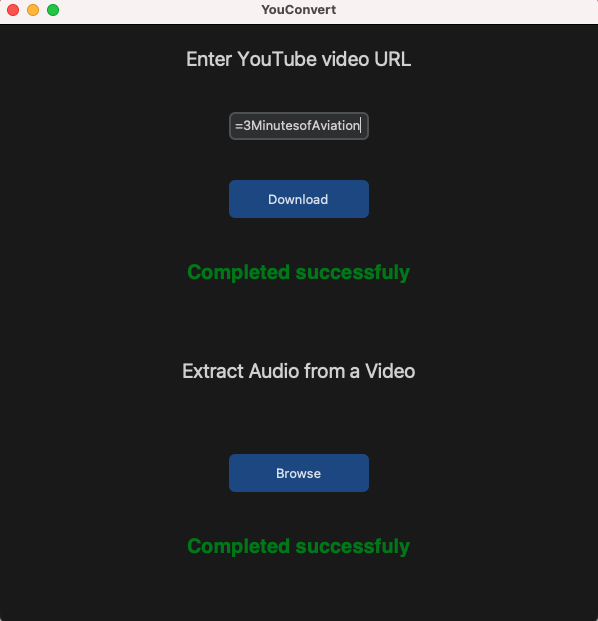
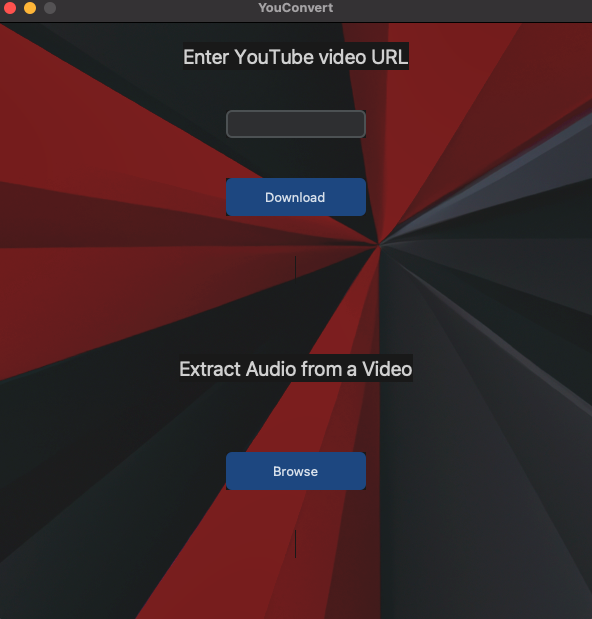
some changes

diff --git a/style.css b/style.css
@@ -249,7 +249,7 @@ input[type=email]
     background-size: cover;
     background-size: auto 120%;
     background-repeat: no-repeat;
-    opacity: 0.7;
+    opacity: 1;
     background-color: black;
     
     }
